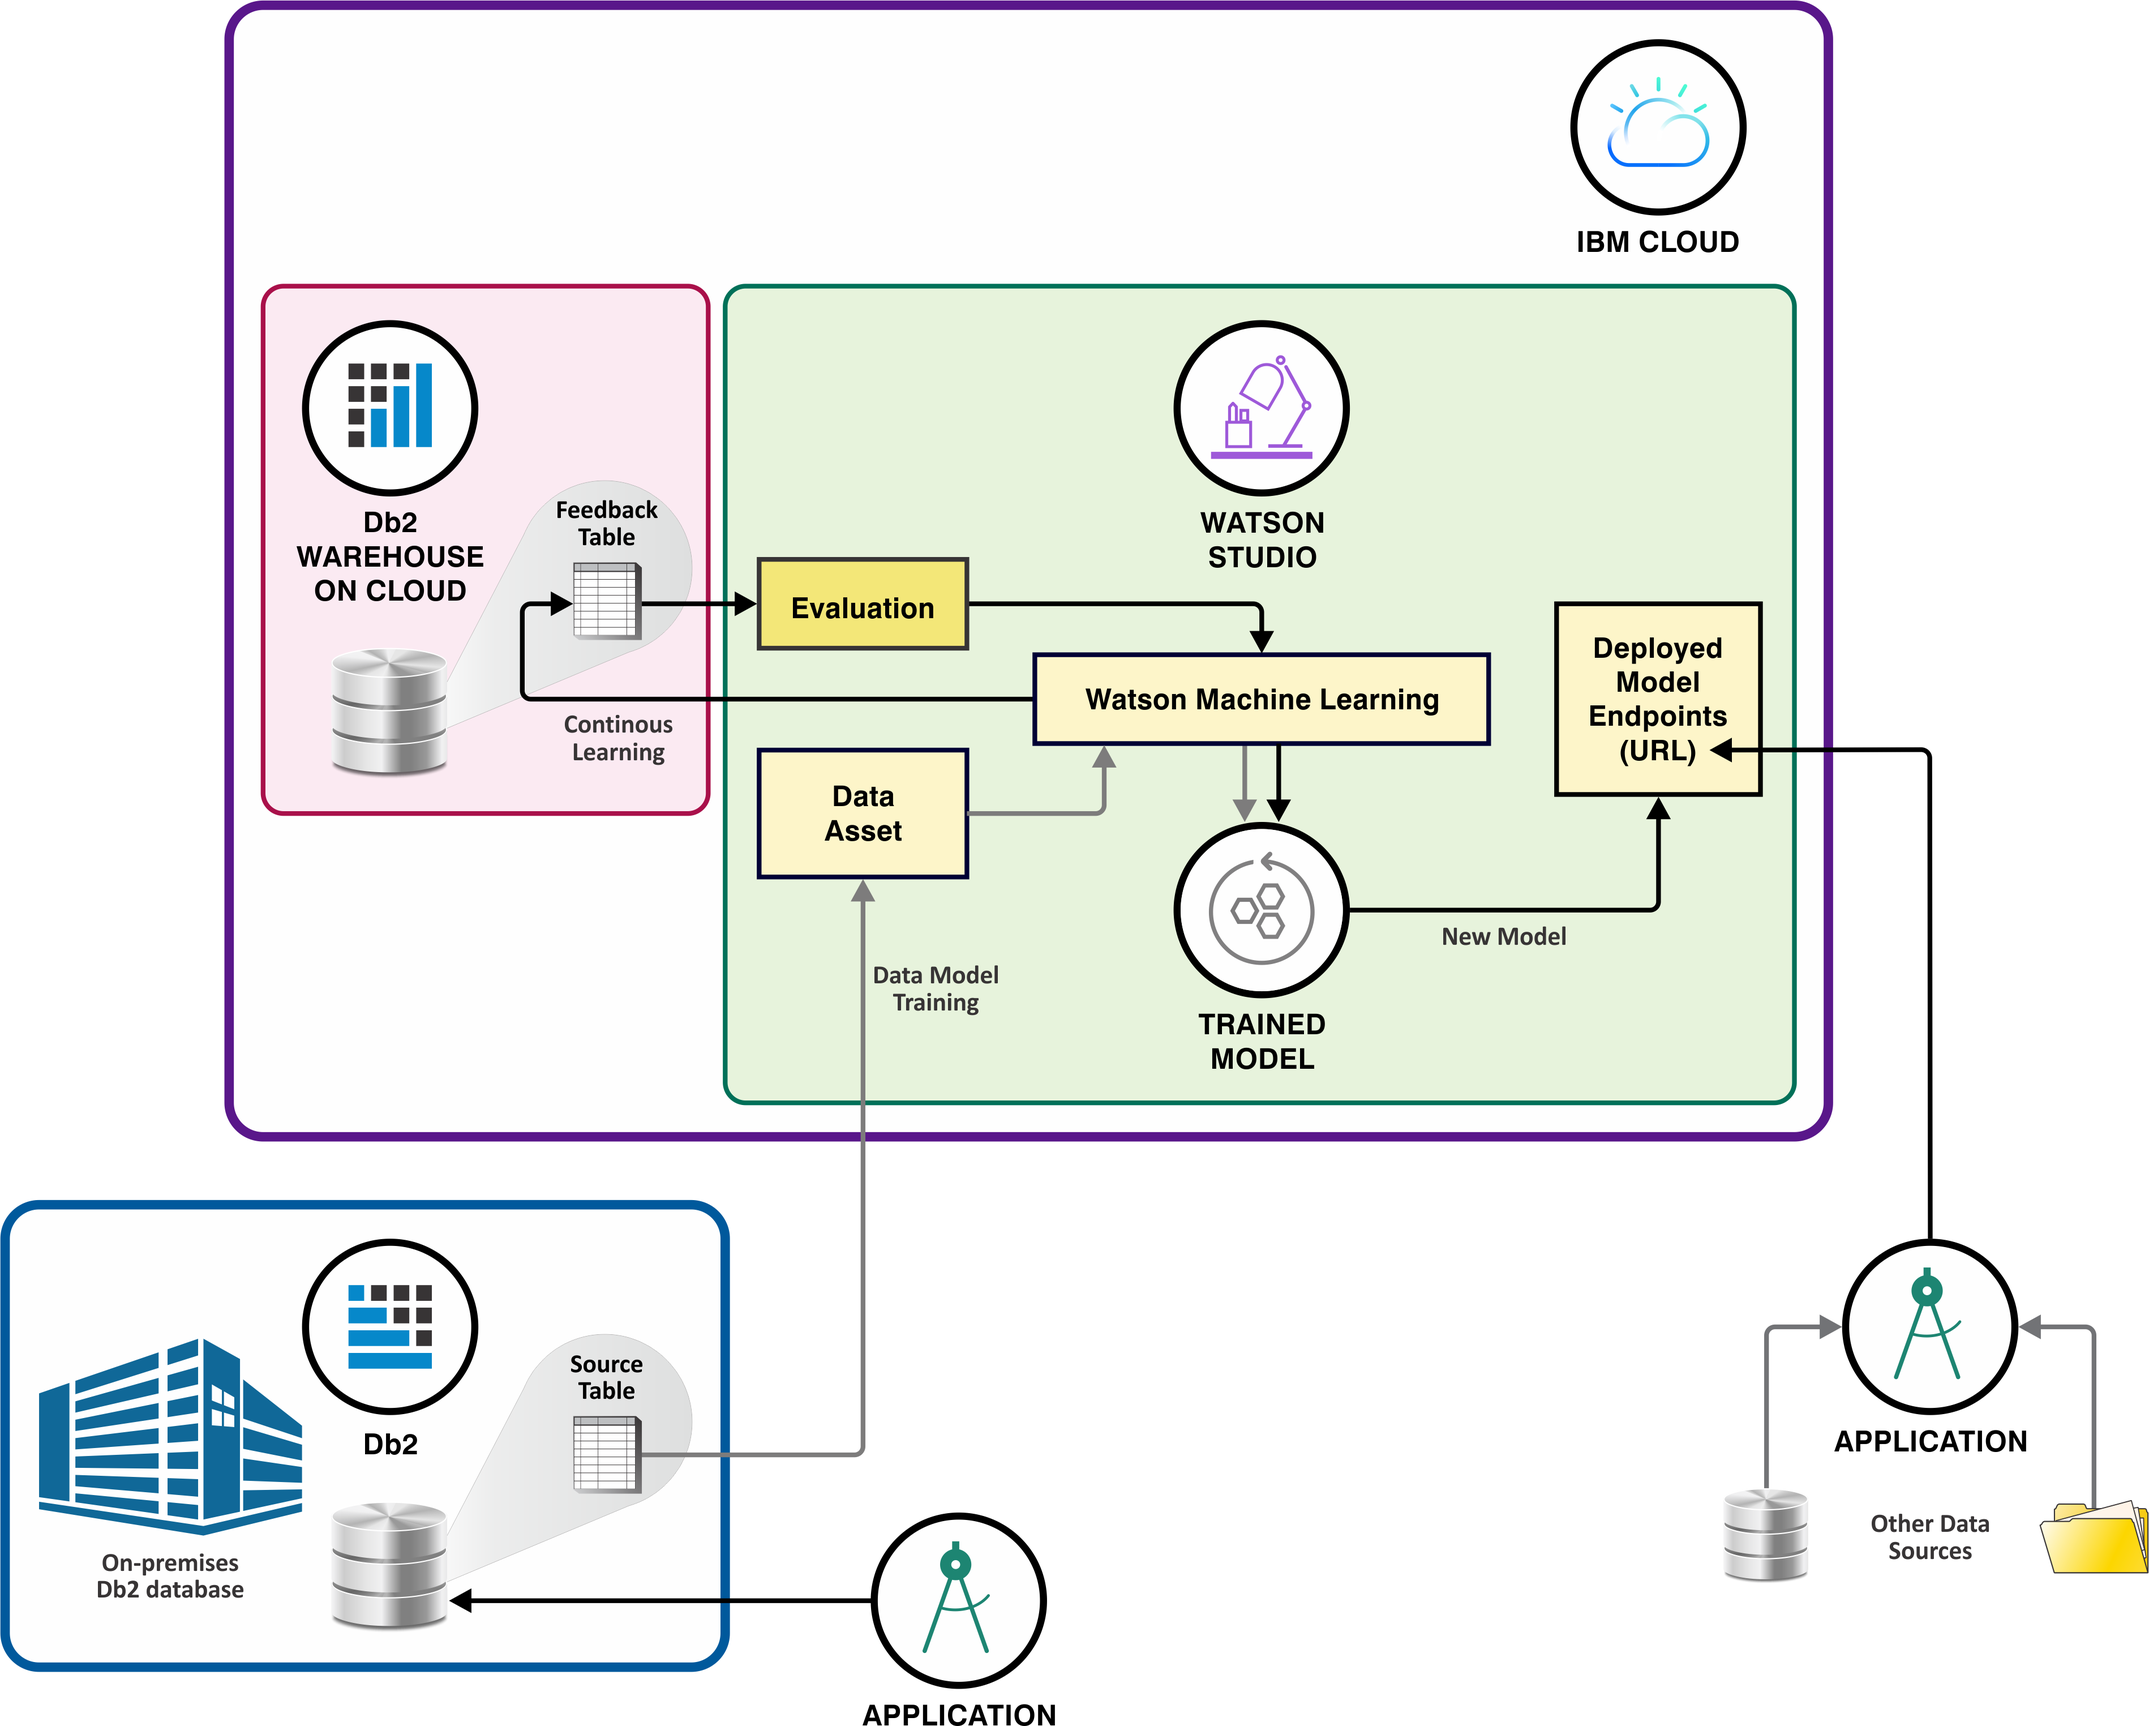
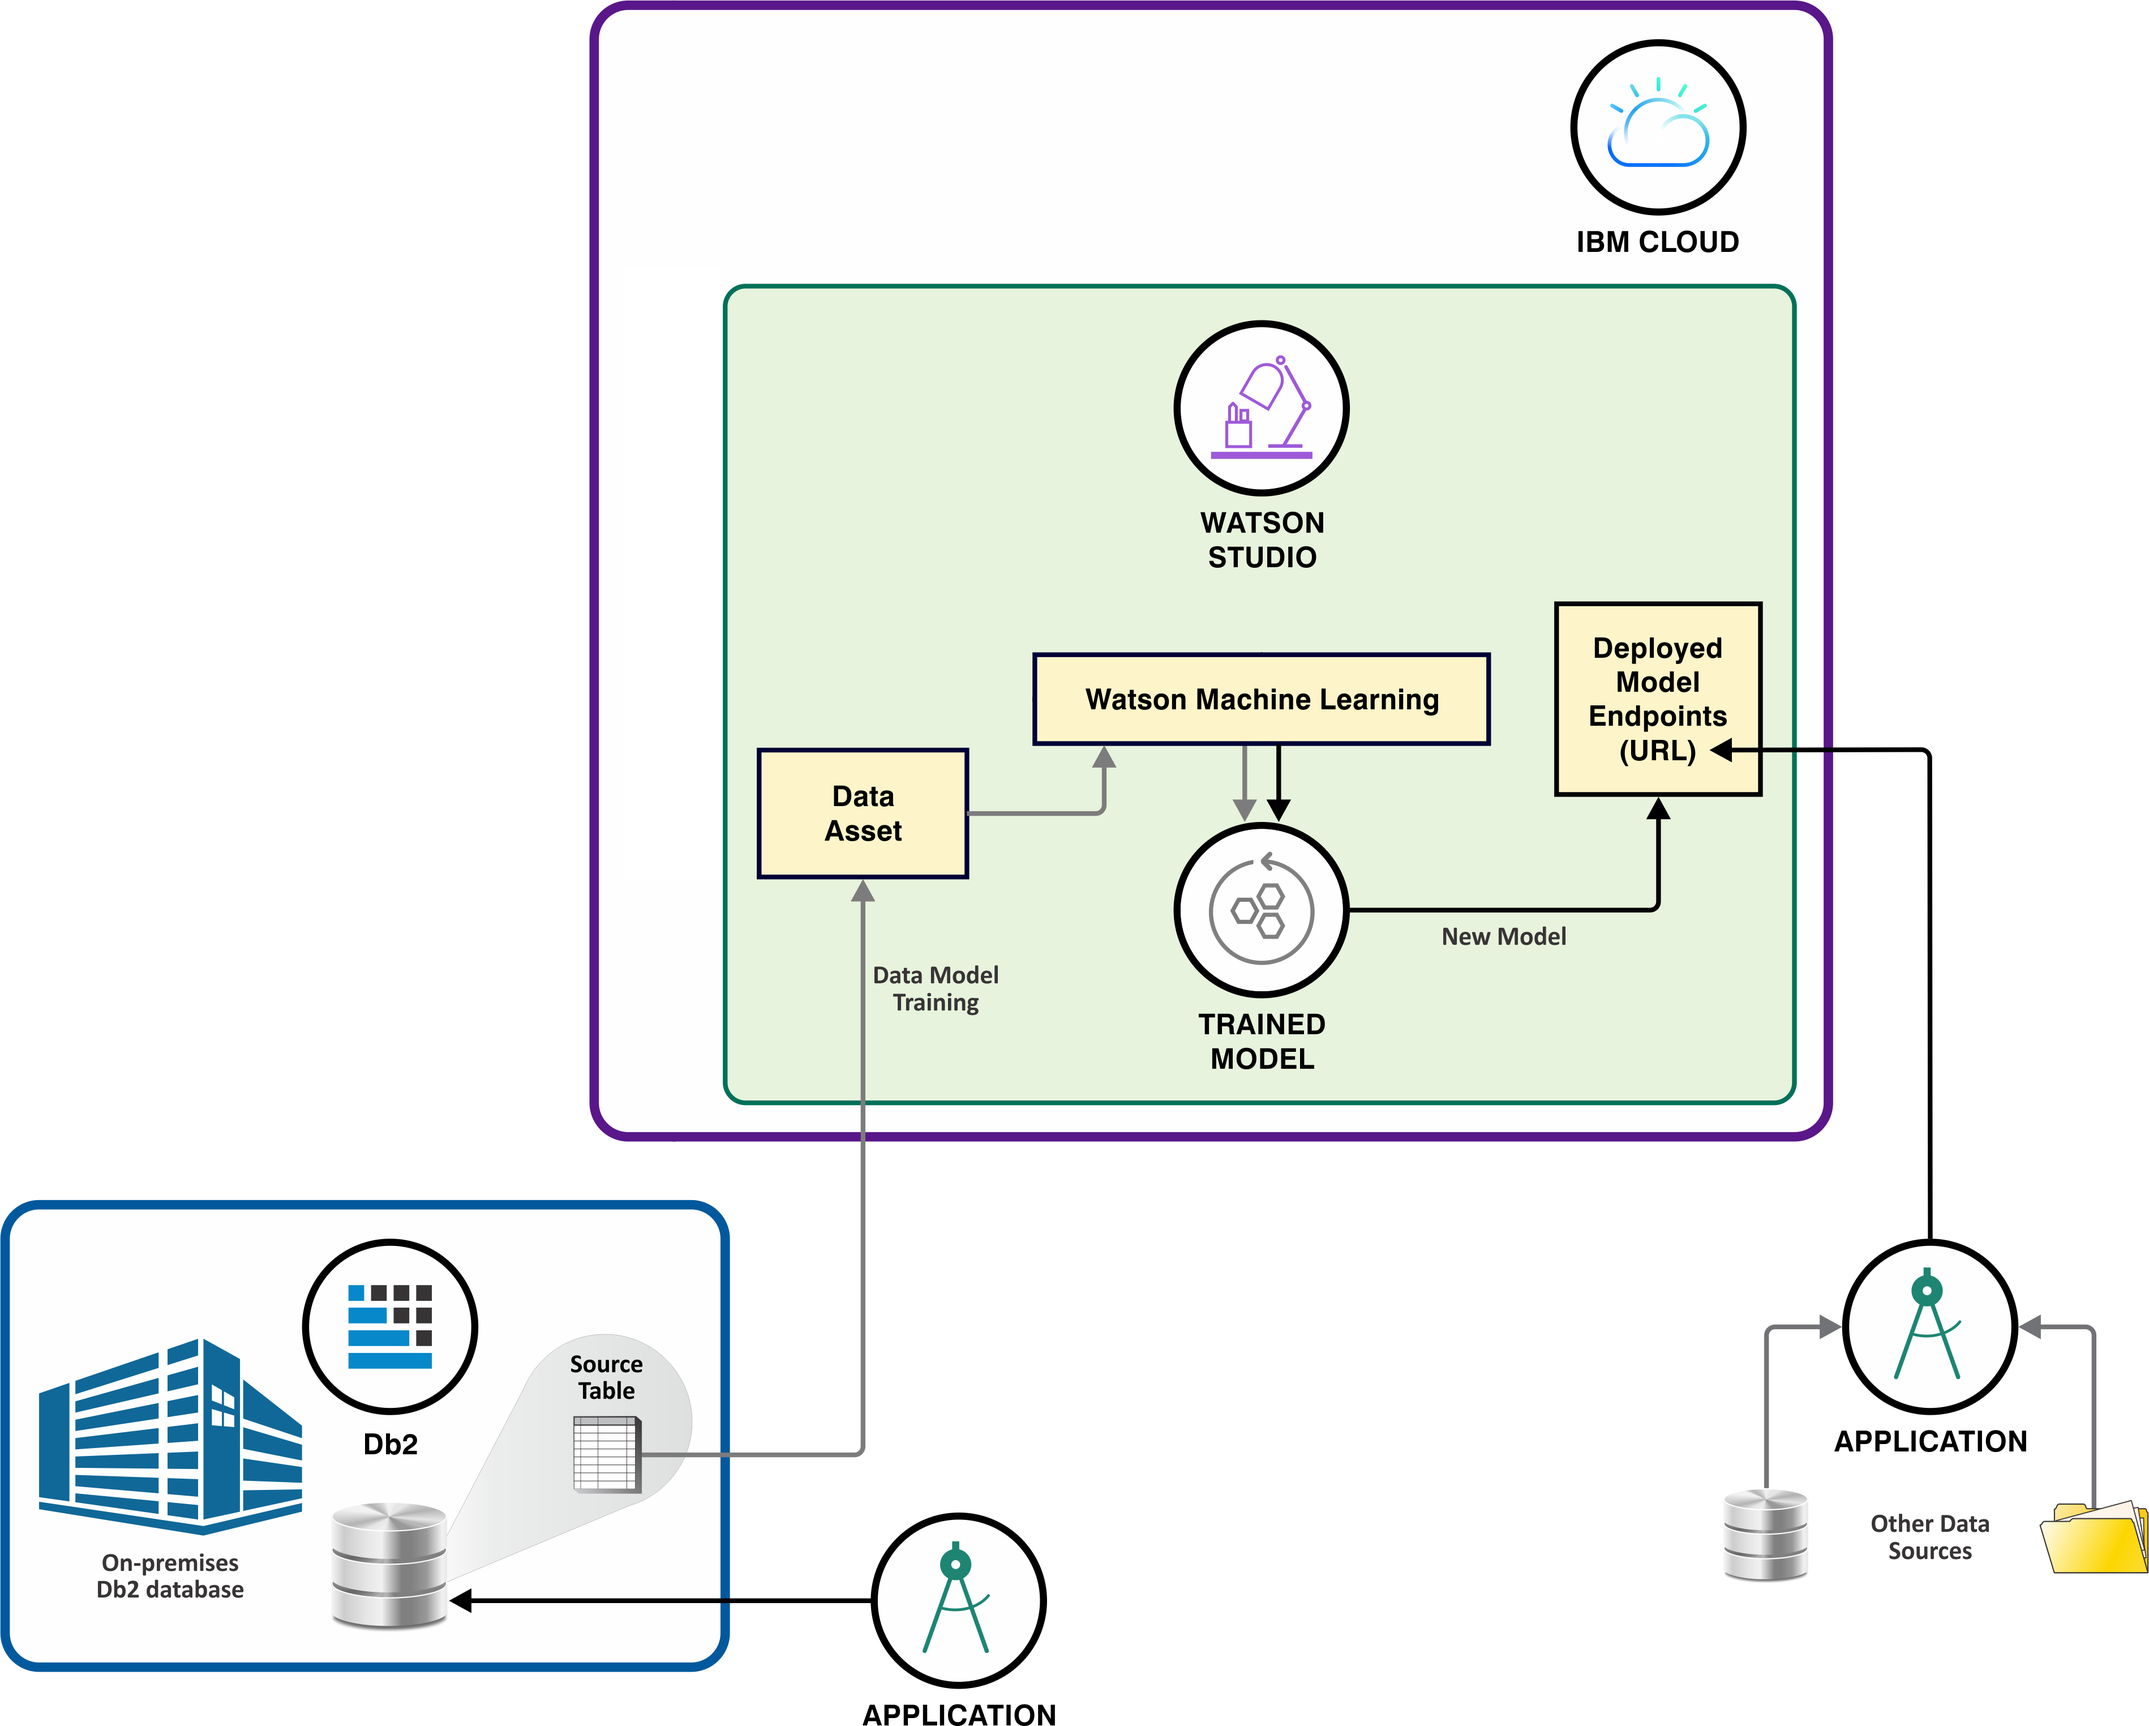
Cut continuous learning

Changed region(s): [[0.0932, 0.0, 0.4662, 0.6855], [0.5594, 0.3427, 0.5905, 0.3739]]

diff --git a/README.md b/README.md
@@ -1,6 +1,6 @@
-# Continuously train a cloud-based machine learning model from an on-premise database
+# Train a cloud-based machine learning model from an on-premise database
 
-[![Build Status](https://travis-ci.org/IBM/watson-continuous-learning-on-db2.svg?branch=master)](https://travis-ci.org/IBM/watson-continuous-learning-on-db2)
+[![Build Status](https://travis-ci.org/IBM/training-watson-from-on-prem-db2.svg?branch=master)](https://travis-ci.org/IBM/training-watson-from-on-prem-db2)
 
 TODO
 
@@ -11,15 +11,9 @@ TODO
 1. Source data is retained in on-premise Db2 database.
 1. Data is accessible to Watson Studio via a Secure Gateway.
 1. Secure gateway is utilized to train a cloud-based machine learning model.
-1. Training feedback is stored in Db2 Warehouse for continuous learning.
 
 ## Included components
 
-* [IBM Db2 Warehouse on
-  Cloud](https://www.ibm.com/cloud/db2-warehouse-on-cloud): An elastic,
-  fully-managed cloud data warehouse service that is powered by IBM BLU
-  Acceleration technology for increased performance and optimization of
-  analytics at a massive scale.
 * [IBM Watson Studio](https://www.ibm.com/cloud/watson-studio): Build and train
   AI models, and prepare and analyze data, in a single, integrated environment.
 
@@ -40,7 +34,6 @@ TODO
 1. [Configure a secure gateway to IBM Cloud](#configure-a-secure-gateway-to-ibm-cloud)
 1. [Connect to on-premise Db2 database from Watson Studio](#connect-to-on-premise-db2-database-from-watson-studio)
 1. [Create a machine learning model](#create-a-machine-learning-model)
-1. [Enable continuous learning](#enable-continuous-learning)
 
 ### Create IBM Cloud service instances
 
@@ -49,7 +42,6 @@ up for Watson Studio](https://www.ibm.com/cloud/watson-studio), which you can
 do for free. In our use case, Watson Studio will rely on the Object Storage
 service to store it's data, the Apache Spark service for data processing,
 and the Machine Learning service for building machine learning models.
-Finally, we'll use a DB2 Warehouse to enable continuous learning.
 
 From the [IBM Cloud Catalog](https://console.bluemix.net/catalog/), select the
 [**Storage**](https://console.bluemix.net/catalog/?category=storage) category,
@@ -57,7 +49,7 @@ and then the [**Object
 Storage**](https://console.bluemix.net/catalog/services/cloud-object-storage)
 service. Then, click **Create**.
 
-![Create IBM Cloud Object Storage service](http://browser-testing-cdn.dolphm.com/watson-continuous-learning-on-db2-create-object-storage.png)
+![Create IBM Cloud Object Storage service](http://browser-testing-cdn.dolphm.com/training-watson-from-on-prem-db2-create-object-storage.png)
 
 From the [IBM Cloud Catalog](https://console.bluemix.net/catalog/), select the
 [**Web and
@@ -66,7 +58,7 @@ category, and then the [**Apache
 Spark**](https://console.bluemix.net/catalog/services/apache-spark) service.
 Then, click **Create**.
 
-![Create IBM Cloud Apache Spark instance](http://browser-testing-cdn.dolphm.com/watson-continuous-learning-on-db2-create-apache-spark.png)
+![Create IBM Cloud Apache Spark instance](http://browser-testing-cdn.dolphm.com/training-watson-from-on-prem-db2-create-apache-spark.png)
 
 From the [IBM Cloud Catalog](https://console.bluemix.net/catalog/), select the
 [**AI**](https://console.bluemix.net/catalog/?category=ai) category, and then
@@ -74,15 +66,7 @@ the [**Watson
 Studio**](https://console.bluemix.net/catalog/services/watson-studio) service.
 Then, click **Create**.
 
-![Create IBM Cloud Watson Studio service](http://browser-testing-cdn.dolphm.com/watson-continuous-learning-on-db2-create-watson-studio.png)
-
-From the [IBM Cloud Catalog](https://console.bluemix.net/catalog/), select the
-[**Databases**](https://console.bluemix.net/catalog/?category=databases)
-category, and then the [**Db2
-Warehouse**](https://console.bluemix.net/catalog/services/db2-warehouse)
-service. Then, click **Create**.
-
-![Create IBM Cloud Db2 Warehouse instance](http://browser-testing-cdn.dolphm.com/watson-continuous-learning-on-db2-create-db2-warehouse.png)
+![Create IBM Cloud Watson Studio service](http://browser-testing-cdn.dolphm.com/training-watson-from-on-prem-db2-create-watson-studio.png)
 
 ### Load sample data into an on-premise Db2 database
 
@@ -199,7 +183,7 @@ Create a [Secure
 Gateway](https://console.bluemix.net/catalog/services/secure-gateway) from the
 IBM Cloud Catalog.
 
-![Create a new Secure Gateway](http://browser-testing-cdn.dolphm.com/watson-continuous-learning-on-db2-new-secure-gateway.png)
+![Create a new Secure Gateway](http://browser-testing-cdn.dolphm.com/training-watson-from-on-prem-db2-new-secure-gateway.png)
 
 Once the gateway is created, select **Connect Client** and choose **Docker** as
 the connection method.
@@ -232,20 +216,20 @@ for additional configuration options.
 
 Create a **New Project**.
 
-![Watson Studio home](http://browser-testing-cdn.dolphm.com/watson-continuous-learning-on-db2-dataplatform-home.png)
+![Watson Studio home](http://browser-testing-cdn.dolphm.com/training-watson-from-on-prem-db2-dataplatform-home.png)
 
 Select **Complete**, when prompted.
 
 Enter `Violations` as the project name, and click **Create**.
 
-![New Watson Studio project](http://browser-testing-cdn.dolphm.com/watson-continuous-learning-on-db2-new-project.png)
+![New Watson Studio project](http://browser-testing-cdn.dolphm.com/training-watson-from-on-prem-db2-new-project.png)
 
 Near the top right of the screen, select the **Add to project** dropdown, choose
 **Connection**, and select **Db2** from the available options.
 
-![Add to Watson Studio project](http://browser-testing-cdn.dolphm.com/watson-continuous-learning-on-db2-add-to-project.png)
+![Add to Watson Studio project](http://browser-testing-cdn.dolphm.com/training-watson-from-on-prem-db2-add-to-project.png)
 
-![New Db2 connection](http://browser-testing-cdn.dolphm.com/watson-continuous-learning-on-db2-new-db2-connection.png)
+![New Db2 connection](http://browser-testing-cdn.dolphm.com/training-watson-from-on-prem-db2-new-db2-connection.png)
 
 Configure the connection as follows:
 
@@ -306,85 +290,11 @@ Col)**, and choose **Multiclass Classification** as your technique. Click
 
 When training is complete, click **Save** to store your model.
 
-You can now use the model's endpoint in your own application. However, if you
-also enable continuous learning, then your application will become smarter over
-time, without having to update the application.
-
-### Enable continuous learning
-
-In order to enable continuous learning, we need to create a feedback loop to
-the machine learning model. To accomplish that, we need to create a feedback
-table in Db2 Warehouse on Cloud.
-
-From the IBM Cloud dashboard, navigate to your Db2 Warehouse instance, and
-click **Open**. Use the hamburger menu **&#9776;** in the top left, and click
-**Run SQL**. Run the following two statements to create a feedback table, and a
-SQL trigger to automatically populate a new column as new rows are inserted.
-
-> TODO: This schema is not accepted by the performance monitor unless all the
-> `INTEGER` and `DOUBLE` columns are typed as VARCHAR, which seems absurd.
-> Otherwise, you get errors configuring performance monitoring such as "The
-> feedback table indicated in learning configuration VIOLATIONS_FEEDBACK
-> already exists, but it is not compatible with expected schema: Column ID has
-> incompatible type INTEGER vs expected StringType"
-
-> TODO: Why would you want the _TRAINING column to be non-nullable in the first
-> place?
-
-> TODO: Is the Db2 trigger intended to ease first time setup, or is it supposed
-> to remain as part of the continuous learning process? I would think the
-> machine learning service would populate that column by itself, when
-> re-training occurs.
-
-    CREATE TABLE
-      violations_feedback(
-        ID INTEGER,
-        VIOLATION_CODE VARCHAR(20),
-        INSPECTOR_ID VARCHAR(15),
-        INSPECTION_STATUS VARCHAR(10),
-        INSPECTION_CATEGORY VARCHAR(10),
-        DEPARTMENT_BUREAU VARCHAR(30),
-        ADDRESS VARCHAR(250),
-        LATITUDE DOUBLE,
-        LONGITUDE DOUBLE,
-        "_TRAINING" TIMESTAMP NOT NULL)
-      ORGANIZE BY ROW;
-
-    CREATE TRIGGER
-      feedback_trigger
-      NO CASCADE
-      BEFORE INSERT ON violations_feedback
-      REFERENCING NEW AS n
-      FOR EACH ROW SET n."_TRAINING"=CURRENT_TIMESTAMP;
-
-    COMMIT;
-
-#### Performance Monitoring
-
-Next, we need to create a trigger in Watson Studio for re-training.
-
-From your project's **Assets** tab in Watson Studio, Click your machine
-learning model ("Violation Predictor"), click the **Evaluation** tab, and click
-**Configure Performance Monitoring**.
-
-Configure performance monitoring using the following values:
-
-* **Spark Service or Environment**: choose your Apache Spark instance
-* **Prediction type**: _multiclass_
-* **Metric details**: _accuracy_ (leave the value blank)
-* **Record count required for re-evaluation**: `100`
-* **Auto retrain**: _when model performance is below threshold_
-* **Auto deploy**: _when model performance is better than previous version_
-
-Click **Save**.
-
-When the configured trigger occurs, the Machine Learning service will pull in
-new data from the feedback table and re-train the model. If the new model
-performs better, then it will be automatically deployed.
+You can now use the model's endpoint in your own application.
 
 ## Sample output
 
-![Continuous learning](http://browser-testing-cdn.dolphm.com/watson-continuous-learning-on-db2.png)
+![Cloud-based machine learning from on-prem database](http://browser-testing-cdn.dolphm.com/training-watson-from-on-prem-db2.png)
 
 ## Troubleshooting
 
@@ -392,8 +302,7 @@ TODO
 
 ## Links
 
-* [Continuous Learning on Watson Studio](https://medium.com/ibm-data-science-experience/continuous-learning-on-watson-data-platform-cc39f3fd5042)
-* [IBM Continuous Learning Blog Post Companion Materials](https://github.com/IBMDataScience/buildings_blog)
+TODO
 
 ## Learn more
 
